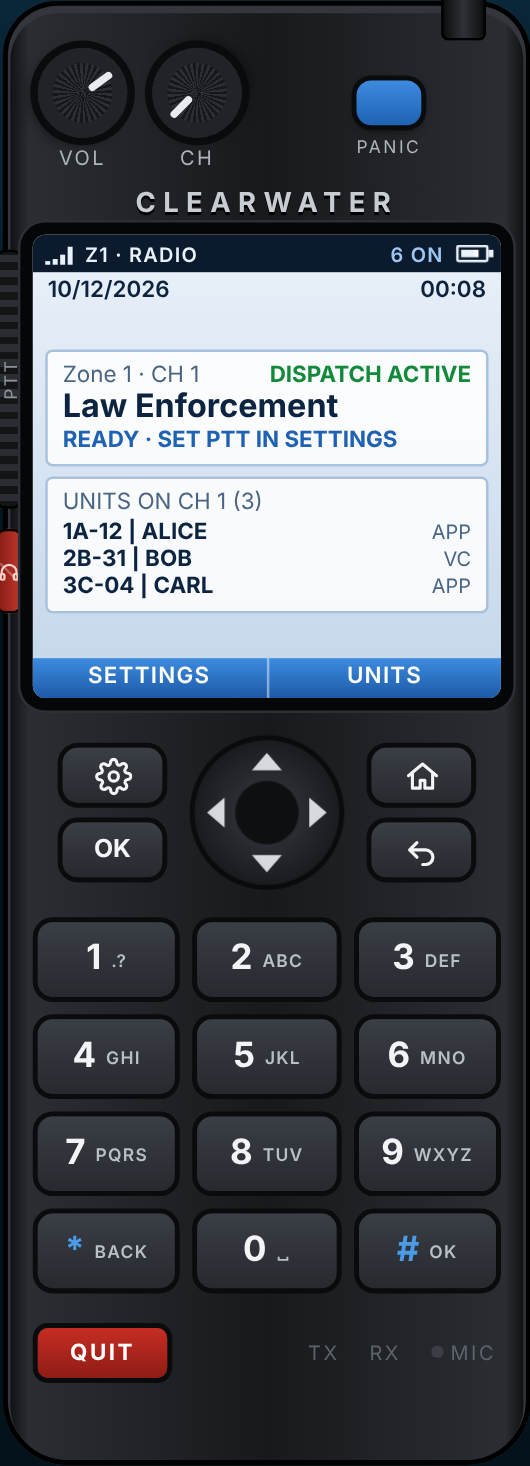
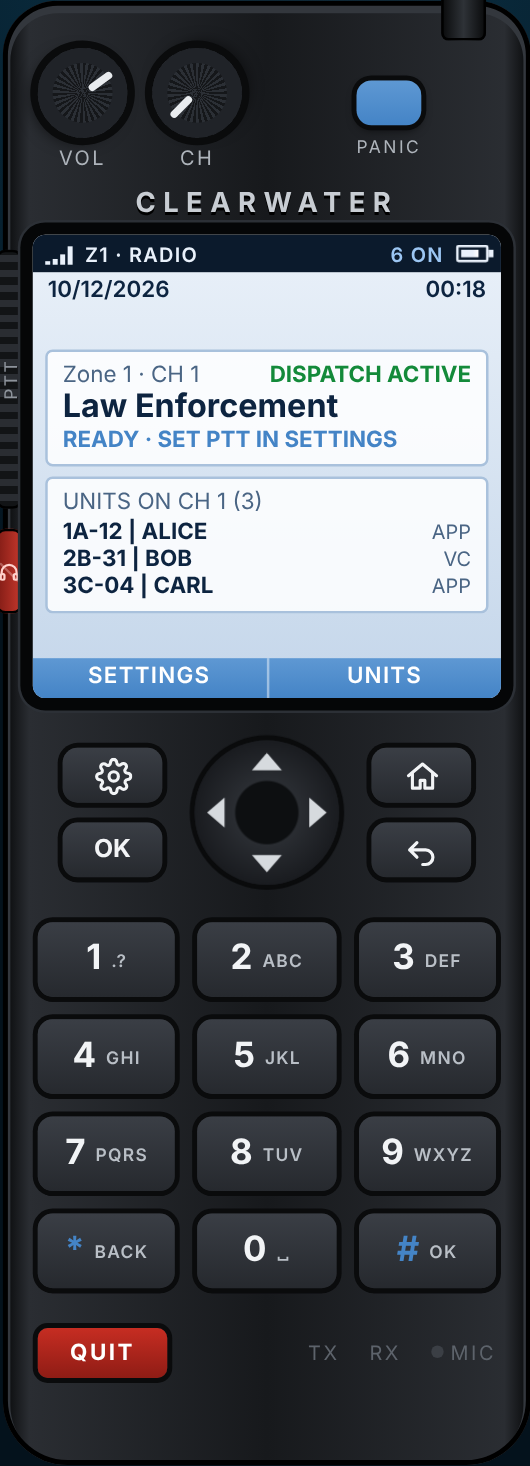
Radio: switch the blue to #4484C6 and make the CH label clickable
Claude-Session: https://claude.ai/code/session_013CipE15ow5oLpWtJPfrKiL

diff --git a/radio-app/renderer/radio.css b/radio-app/renderer/radio.css
@@ -9,12 +9,12 @@
   --screen-bottom: #c4d6ea;
   --ink: #0d2440;
   --ink-dim: #4a6584;
-  --accent: #1f62b3;
-  --accent-hi: #3d8be0;
-  --bar: #1c5aa6;
+  --accent: #4484c6;
+  --accent-hi: #5e98d3;
+  --bar: #4484c6;
   --red: #b3261e;
   --green: #36c25a;
-  --amber: #4a9be8;
+  --amber: #4484c6;
 }
 
 * { box-sizing: border-box; }
@@ -81,6 +81,8 @@ button:focus { outline: none; }
   letter-spacing: 1px;
   color: #aeb4bb;
 }
+
+.knob-wrap:has(#ch) span { cursor: pointer; -webkit-app-region: no-drag; }
 
 .knob {
   width: 36px;
@@ -332,7 +334,7 @@ button:focus { outline: none; }
   white-space: normal;
   overflow-wrap: anywhere;
   padding: 0 3px;
-  border-bottom: 1px solid rgba(31, 98, 179, .15);
+  border-bottom: 1px solid rgba(68, 132, 198, .15);
 }
 
 .lcd .list li.sel {
@@ -342,7 +344,7 @@ button:focus { outline: none; }
 
 .lcd .list li .meta { display: block; font-size: 8px; opacity: .75; }
 .lcd .list.users li { display: flex; justify-content: space-between; gap: 4px; }
-.lcd .list.users li.hdr { justify-content: flex-start; font-weight: 700; color: var(--accent); background: rgba(31, 98, 179, .1); margin-top: 2px; }
+.lcd .list.users li.hdr { justify-content: flex-start; font-weight: 700; color: var(--accent); background: rgba(68, 132, 198, .1); margin-top: 2px; }
 .lcd .list.users li.hdr.cur::before { content: '\25B8 '; }
 .lcd .list.users li.dim { opacity: .55; }
 .lcd .list.users li.talking { color: #12963a; font-weight: 700; }
@@ -512,7 +514,7 @@ button:focus { outline: none; }
 
 /* Clickable screen: rows, value arrows and the soft-key labels. */
 .lcd .list li[data-row] { cursor: pointer; }
-.lcd .list li[data-row]:not(.sel):hover { background: rgba(31, 98, 179, .12); }
+.lcd .list li[data-row]:not(.sel):hover { background: rgba(68, 132, 198, .12); }
 .lcd .rows .adj { display: inline-block; padding: 0 3px; font-size: 8px; cursor: pointer; }
 .lcd-foot span { cursor: pointer; }
 .lcd-foot span:hover { background: rgba(255, 255, 255, .15); }
@@ -617,4 +619,4 @@ body.damaged .lcd { animation: damage-flicker 2.4s steps(1) infinite; }
 .lcd .modal { display: flex; flex-direction: column; align-items: center; gap: 4px; padding: 6px; border-radius: 4px; text-align: center; }
 .lcd .modal.warning { background: rgba(192, 38, 27, .12); border: 1px solid #c0261b; }
 .lcd .modal.warning .mid { color: #c0261b; }
-.lcd .modal.notice { background: rgba(38, 123, 215, .1); border: 1px solid #267bd7; }
+.lcd .modal.notice { background: rgba(68, 132, 198, .1); border: 1px solid #4484c6; }

diff --git a/radio-download.html b/radio-download.html
@@ -33,10 +33,10 @@
   .actions { display: flex; flex-wrap: wrap; align-items: center; gap: 14px; }
   .download {
     display: inline-flex; align-items: center; gap: 10px; padding: 16px 26px; border-radius: 12px;
-    background: #1c5aa6; color: #fff; font-weight: 800; font-size: 17px; text-decoration: none;
-    box-shadow: 0 10px 30px rgba(28, 90, 166, .35);
+    background: #4484c6; color: #fff; font-weight: 800; font-size: 17px; text-decoration: none;
+    box-shadow: 0 10px 30px rgba(68, 132, 198, .35);
   }
-  .download:hover, .download:focus-visible { background: #2468bd; }
+  .download:hover, .download:focus-visible { background: #5592cf; }
   .download svg { width: 20px; height: 20px; }
   .web { padding: 15px 22px; border-radius: 12px; border: 1px solid #1f5a6e; color: #2fc4c8; font-weight: 700; text-decoration: none; }
   .web:hover { background: #0a2130; }

diff --git a/radio-staff.css b/radio-staff.css
@@ -62,7 +62,7 @@ h2 { margin: 0; font-size: 17px; display: flex; align-items: center; gap: 8px; }
   font-weight: 700;
   font-size: 14px;
   cursor: pointer;
-  background: #1c5aa6;
+  background: #4484c6;
   color: #fff;
 }
 .rs-btn:disabled { opacity: .55; cursor: default; }
@@ -145,7 +145,7 @@ h2 { margin: 0; font-size: 17px; display: flex; align-items: center; gap: 8px; }
   font-weight: 700;
   cursor: pointer;
 }
-.rs-tool.on { background: #1c5aa6; border-color: #1c5aa6; color: #fff; }
+.rs-tool.on { background: #4484c6; border-color: #4484c6; color: #fff; }
 .rs-zoom { margin-left: auto; display: inline-flex; align-items: center; gap: 6px; }
 .rs-zoom button {
   width: 36px; height: 36px; border-radius: 10px; border: 1px solid #1f5a6e;

diff --git a/radio-app/renderer/radio.js b/radio-app/renderer/radio.js
@@ -2838,6 +2838,8 @@ function bindControls() {
     chDrag = null;
   });
   el.ch.addEventListener('pointercancel', () => { chDrag = null; });
+  // The CH label under the knob clicks to the next channel too.
+  el.ch.nextElementSibling?.addEventListener('click', () => changeChannel(1));
   el.ch.addEventListener('wheel', (event) => {
     event.preventDefault();
     changeChannel(event.deltaY < 0 ? 1 : -1);

diff --git a/radio-staff.html b/radio-staff.html
@@ -8,7 +8,7 @@
 <title>Radio Staff | Clearwater Radio</title>
 <link rel="icon" type="image/png" href="assets/clearwater-logo.png">
 <link rel="apple-touch-icon" href="assets/clearwater-logo.png">
-<link rel="stylesheet" href="radio-staff.css?v=20261011h">
+<link rel="stylesheet" href="radio-staff.css?v=20261012a">
 </head>
 <body>
 <header class="rs-top">

diff --git a/radio-web.css b/radio-web.css
@@ -41,7 +41,7 @@ body.web .radio { -webkit-app-region: none; }
   width: min(100%, 420px);
   min-height: 64px;
   border-radius: 14px;
-  background: #1c5aa6;
+  background: #4484c6;
   color: #fff;
   font-weight: 800;
   font-size: 17px;
